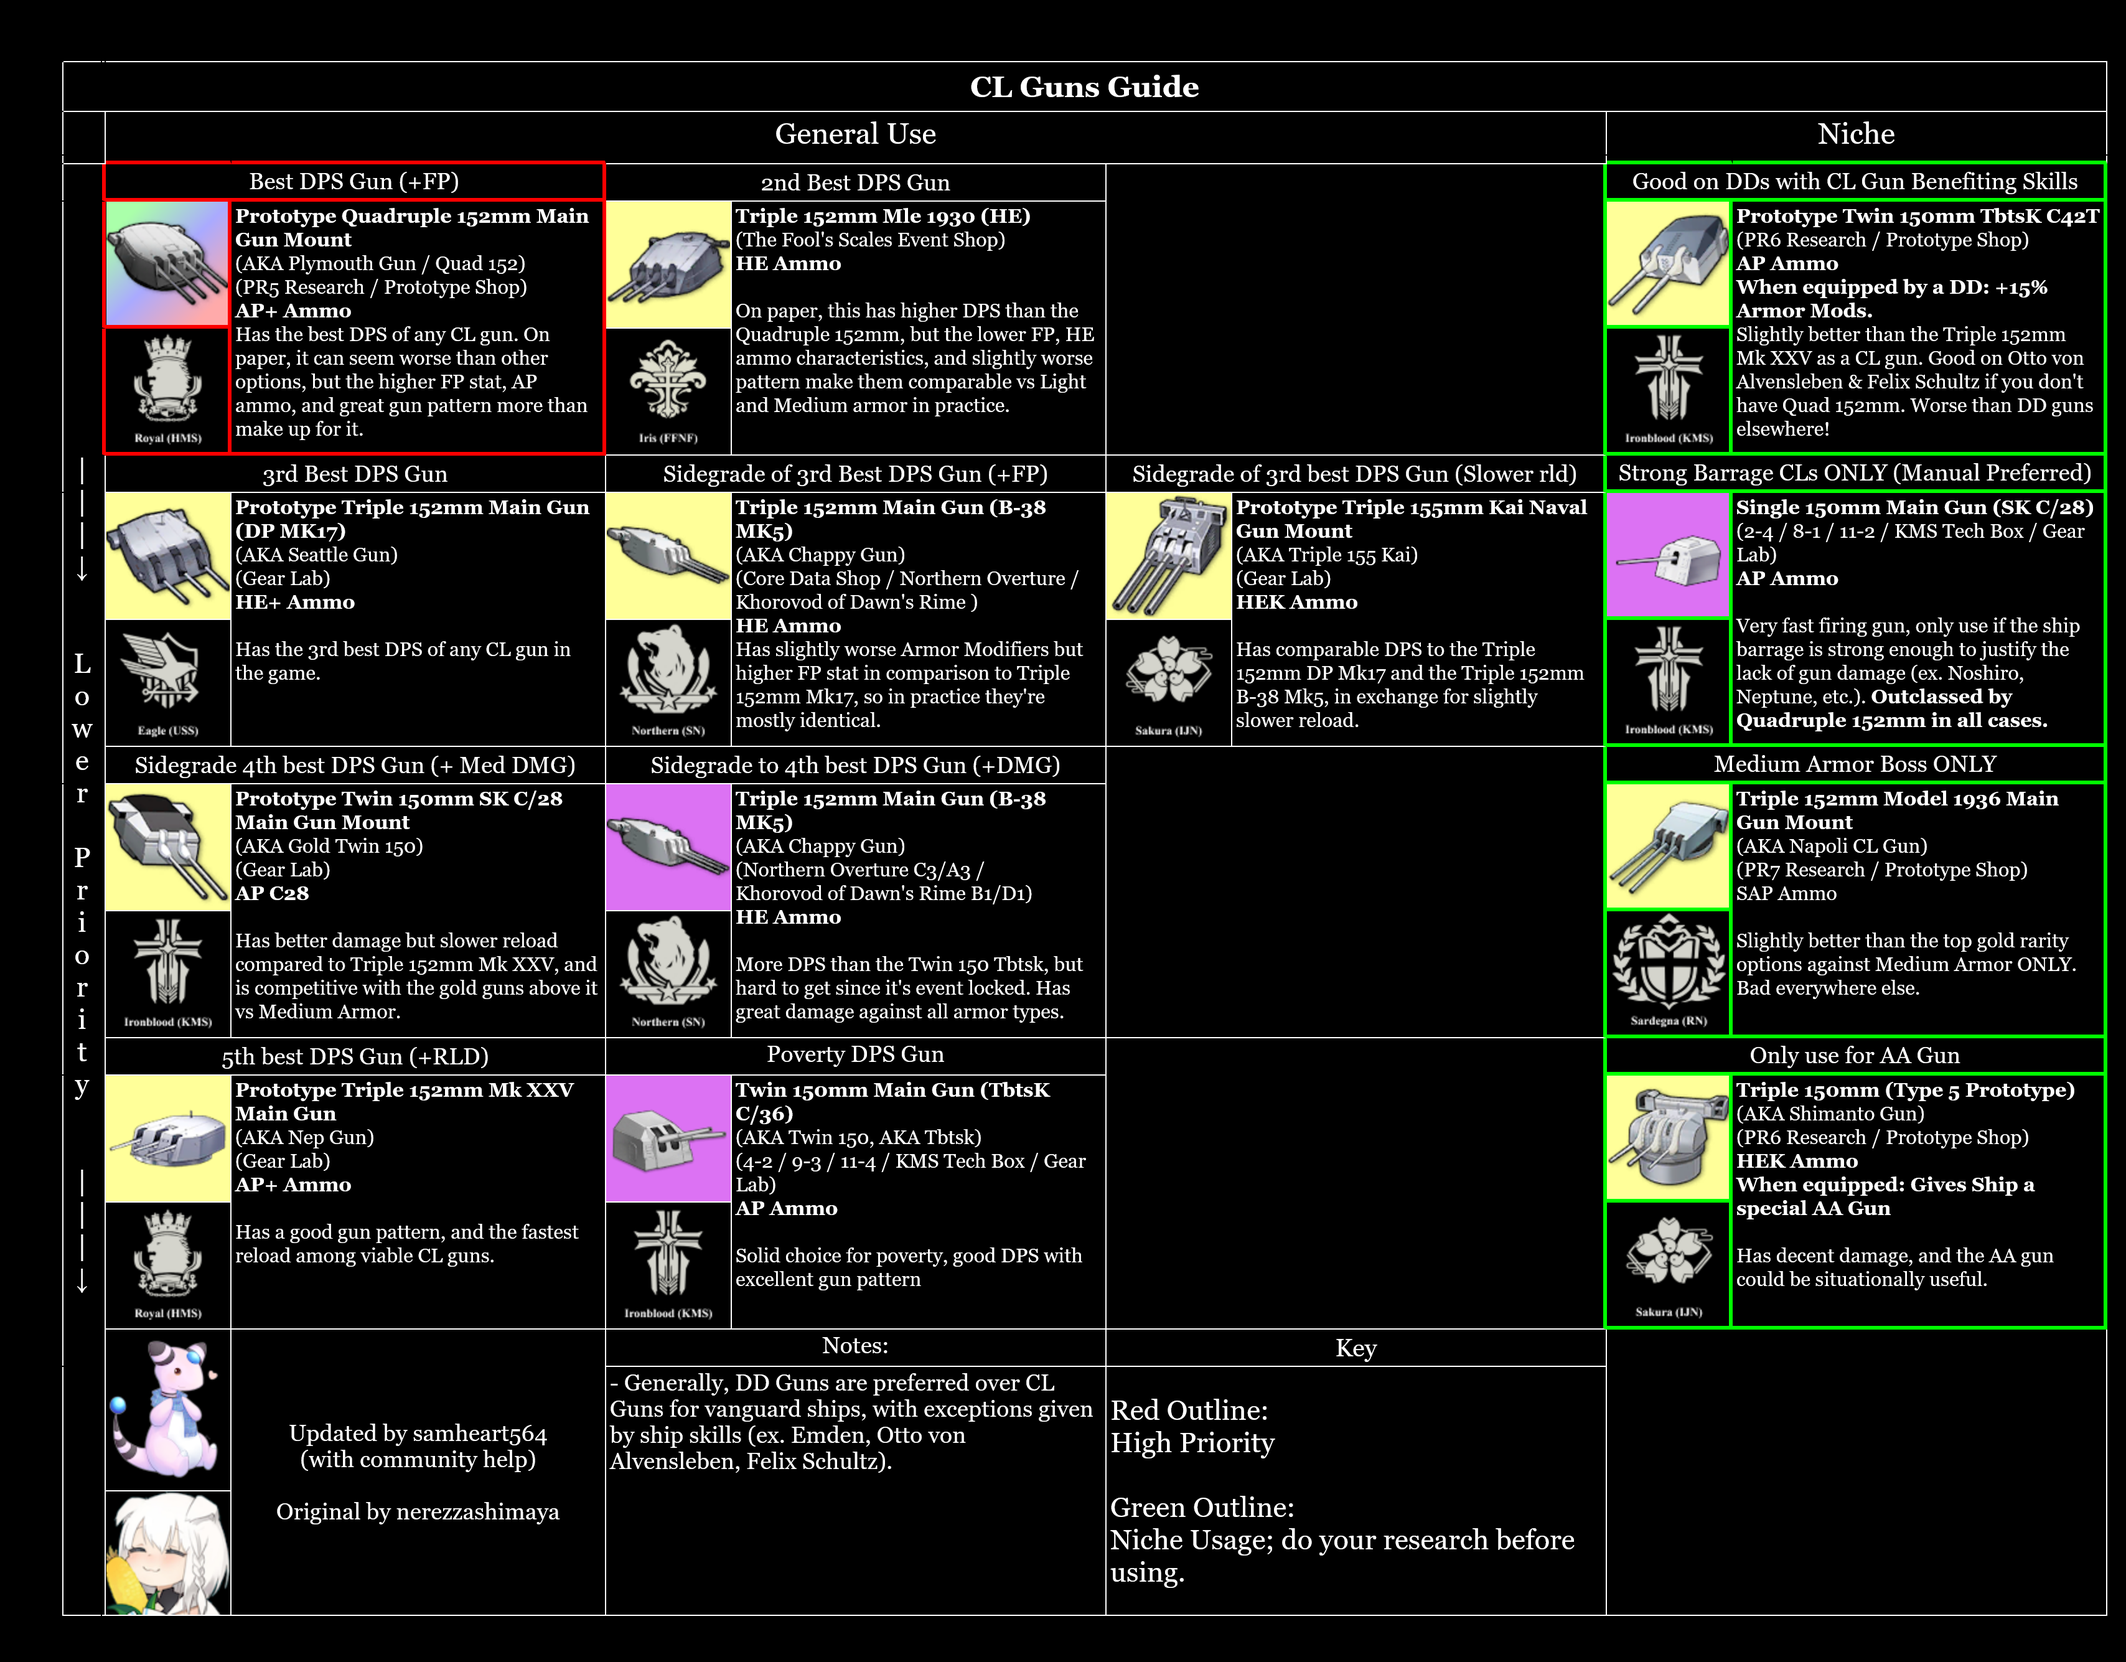
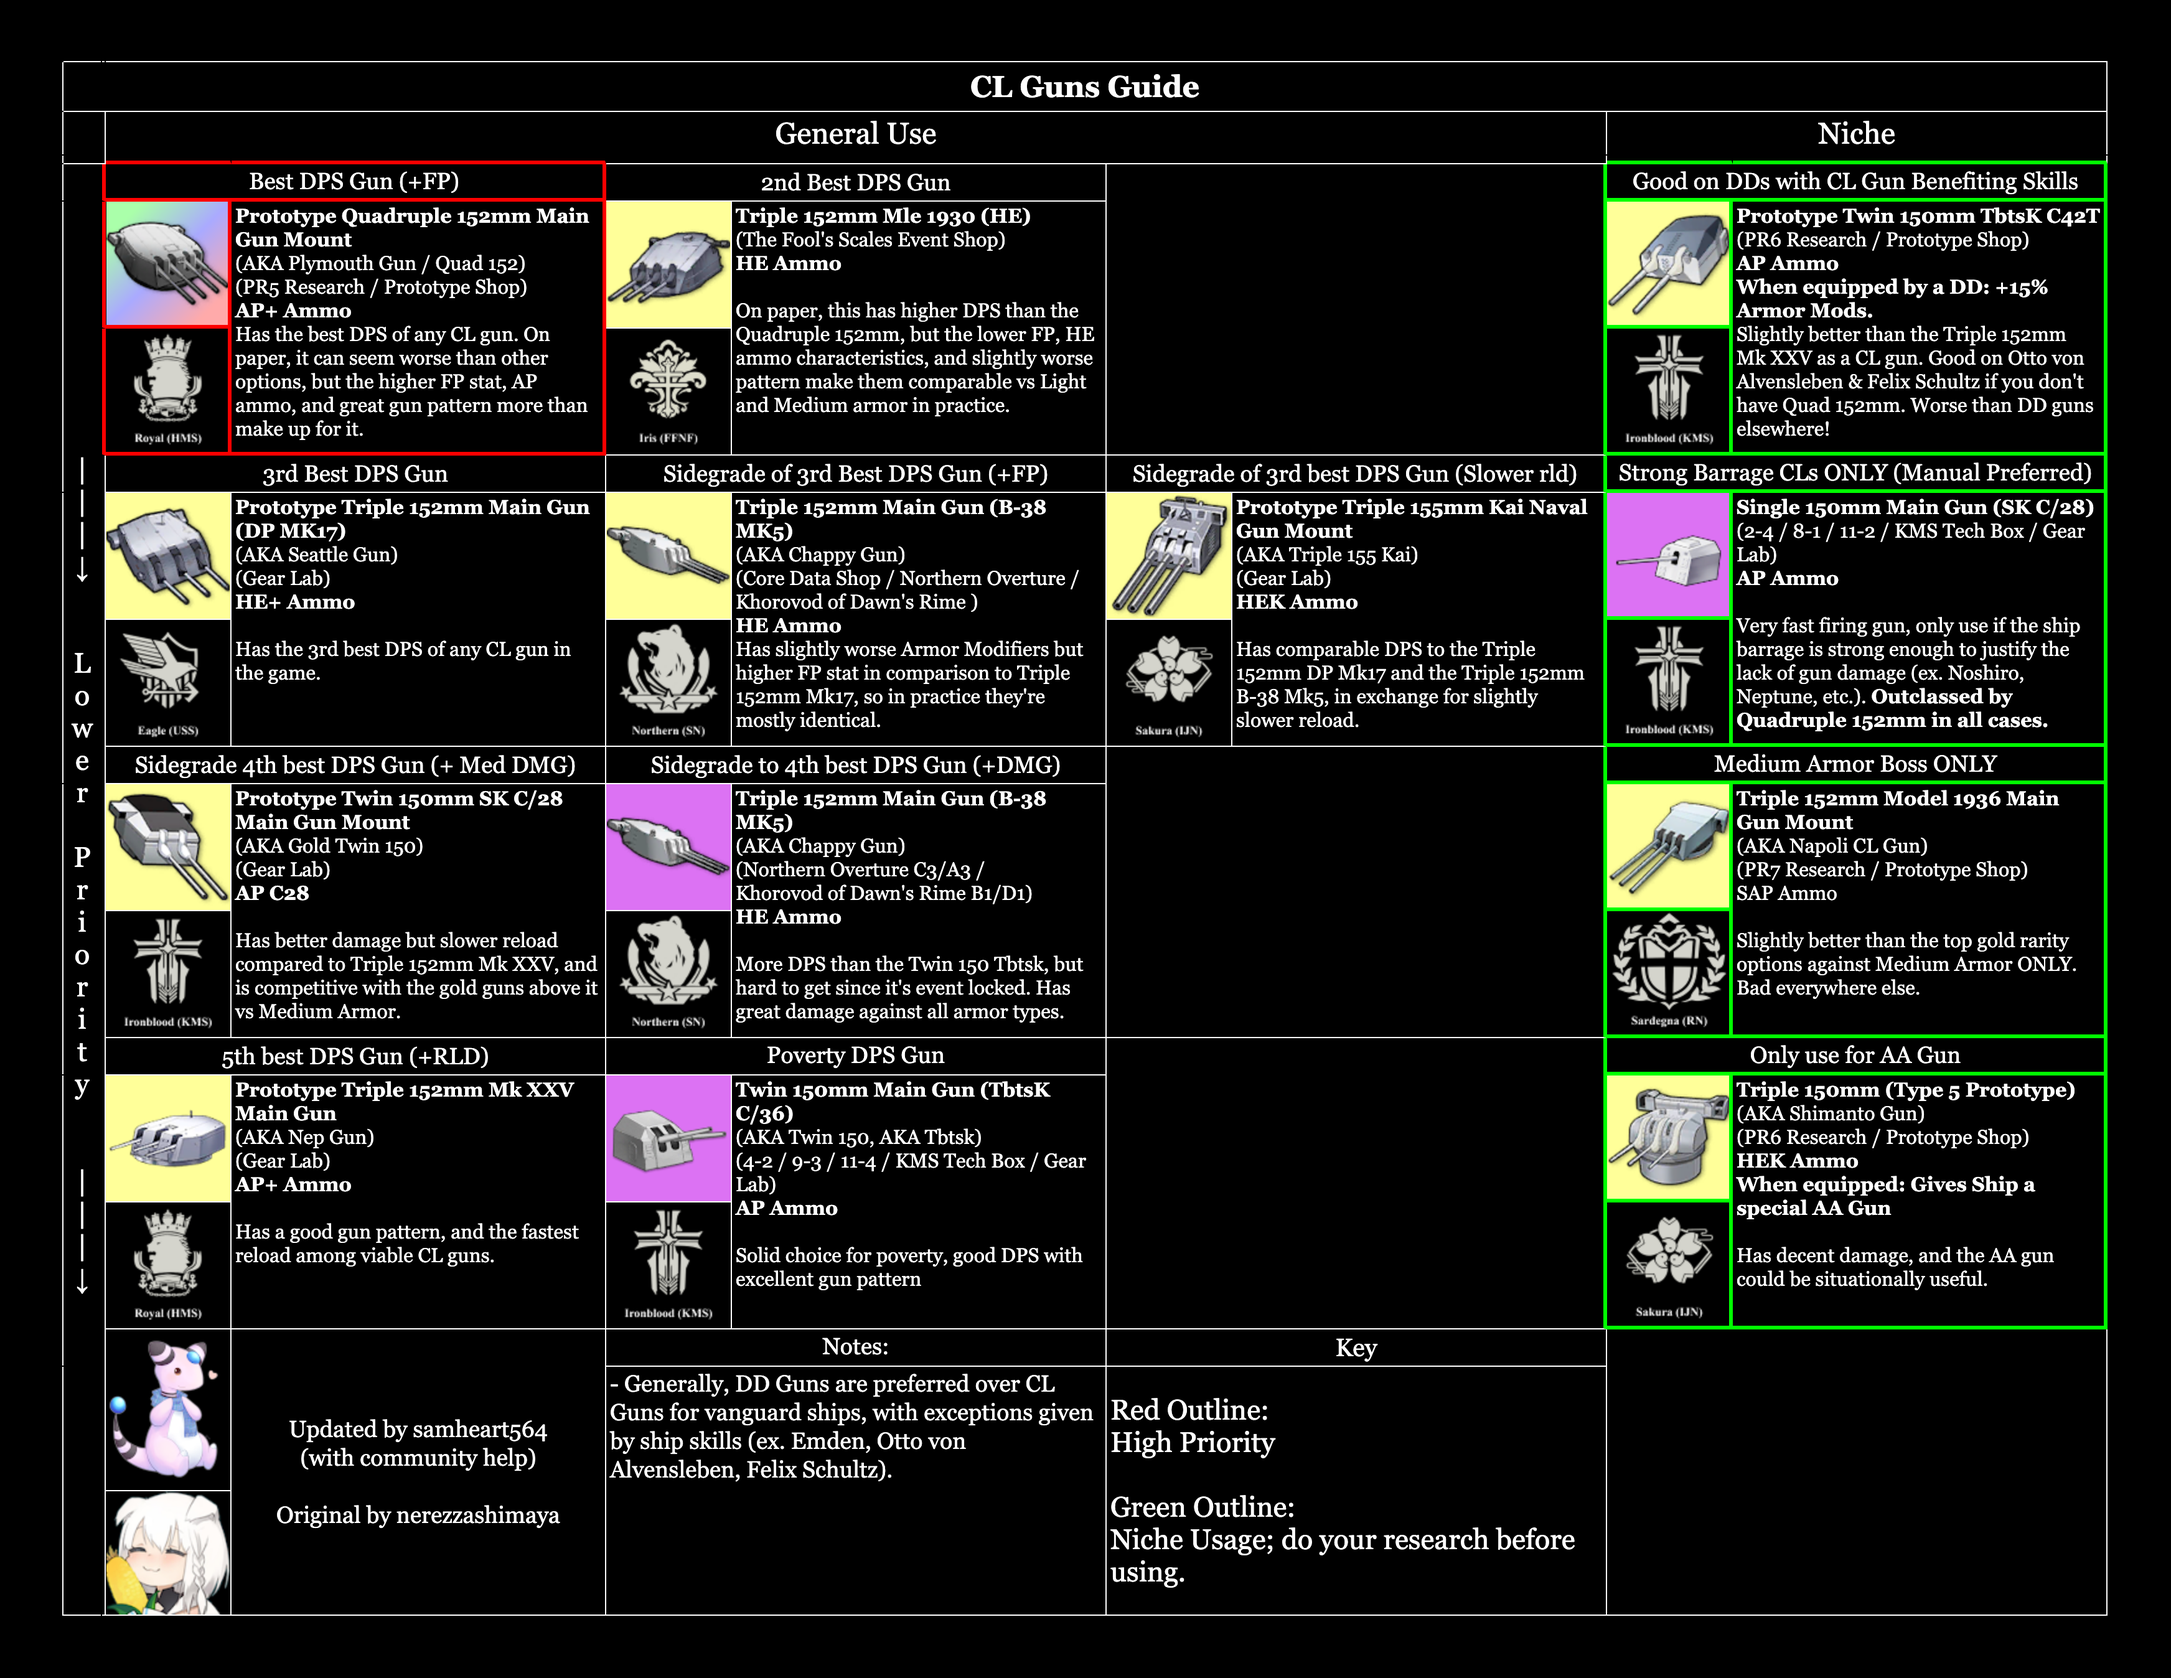
updated equip & misc. spreadsheet

Changed region(s): [[0.031, 0.0622, 0.993, 0.9948], [0.4344, 0.0311, 0.5585, 0.0622], [0.6206, 0.7772, 0.6516, 0.8393]]

diff --git a/dev/python/automated_imgur_upload/gsheets2img.py b/dev/python/automated_imgur_upload/gsheets2img.py
@@ -3,7 +3,6 @@ import shutil
 import tempfile
 import zipfile
 from pathlib import Path
-
 import requests
 from playwright.sync_api import sync_playwright
 
@@ -16,23 +15,17 @@ sheet_id = gsheets2img["sheetID"]
 output_dir = Path(__file__).parent / Path(gsheets2img["outputDir"])
 include_sheets = gsheets2img.get("includeSheets", [])
 exclude_sheets = gsheets2img.get("excludeSheets", [])
-
 resolved_output_dir = output_dir.resolve()
-
 
 def download(sheet_id):
     temp_dir = Path(tempfile.mkdtemp(prefix="gs2imgz-"))
     zip_path = temp_dir / f"{sheet_id}.zip"
-
     url = f"https://docs.google.com/spreadsheets/d/{sheet_id}/export?format=zip"
     response = requests.get(url)
     response.raise_for_status()
-
     with open(zip_path, "wb") as f:
         f.write(response.content)
-
     return zip_path
-
 
 def unzip(zip_path):
     temp_dir = Path(tempfile.mkdtemp(prefix="gs2imgx-"))
@@ -40,7 +33,6 @@ def unzip(zip_path):
         zip_ref.extractall(temp_dir)
     shutil.rmtree(zip_path.parent, ignore_errors=True)
     return temp_dir
-
 
 def screenshot(html_path, png_path, browser):
     page = browser.new_page(
@@ -73,40 +65,39 @@ def screenshot(html_path, png_path, browser):
         return
 
     row_header_width = row_header_box["width"]
-    bounding_box["x"] += row_header_width + 1
-    bounding_box["width"] -= row_header_width + 1
 
-    page.set_viewport_size(
-        {
-            "width": int(bounding_box["width"]) + 10,
-            "height": int(bounding_box["height"]) + 10,
-        }
-    )
+    # Create a new clip area instead of modifying the original bounding_box
+    clip_area = {
+        "x": bounding_box["x"] + row_header_width + 1,
+        "y": bounding_box["y"],
+        "width": bounding_box["width"] - row_header_width - 1,
+        "height": bounding_box["height"]
+    }
+
+    # Set viewport large enough to contain the full content with buffer
+    page.set_viewport_size({
+        "width": max(1920, int(clip_area["width"]) + 100),
+        "height": max(1080, int(clip_area["height"]) + 100)
+    })
 
     print(f"Uploading {html_path.stem}")
-    page.screenshot(path=str(png_path), clip=bounding_box)
+    page.screenshot(path=str(png_path), clip=clip_area)
     page.close()
-
 
 def process_sheets(sheet_names, extracted_dir, browser):
     for sheet_name in sheet_names:
         file_name = sheet_name.replace(" ", "_") + ".jpeg"
         html_path = extracted_dir / f"{sheet_name}.html"
         png_path = resolved_output_dir / file_name
-
         if not html_path.exists():
             print(f"Skipping {sheet_name}: HTML file not found.")
             continue
-
         screenshot(html_path, png_path, browser)
-
 
 def main():
     resolved_output_dir.mkdir(parents=True, exist_ok=True)
-
     zip_path = download(sheet_id)
     extracted_dir = unzip(zip_path)
-
     files = [f for f in extracted_dir.iterdir() if f.suffix == ".html"]
     sheet_names = [
         f.stem
@@ -126,7 +117,6 @@ def main():
 
     shutil.rmtree(extracted_dir)
     print("Finished uploading images.")
-
 
 if __name__ == "__main__":
     main()
